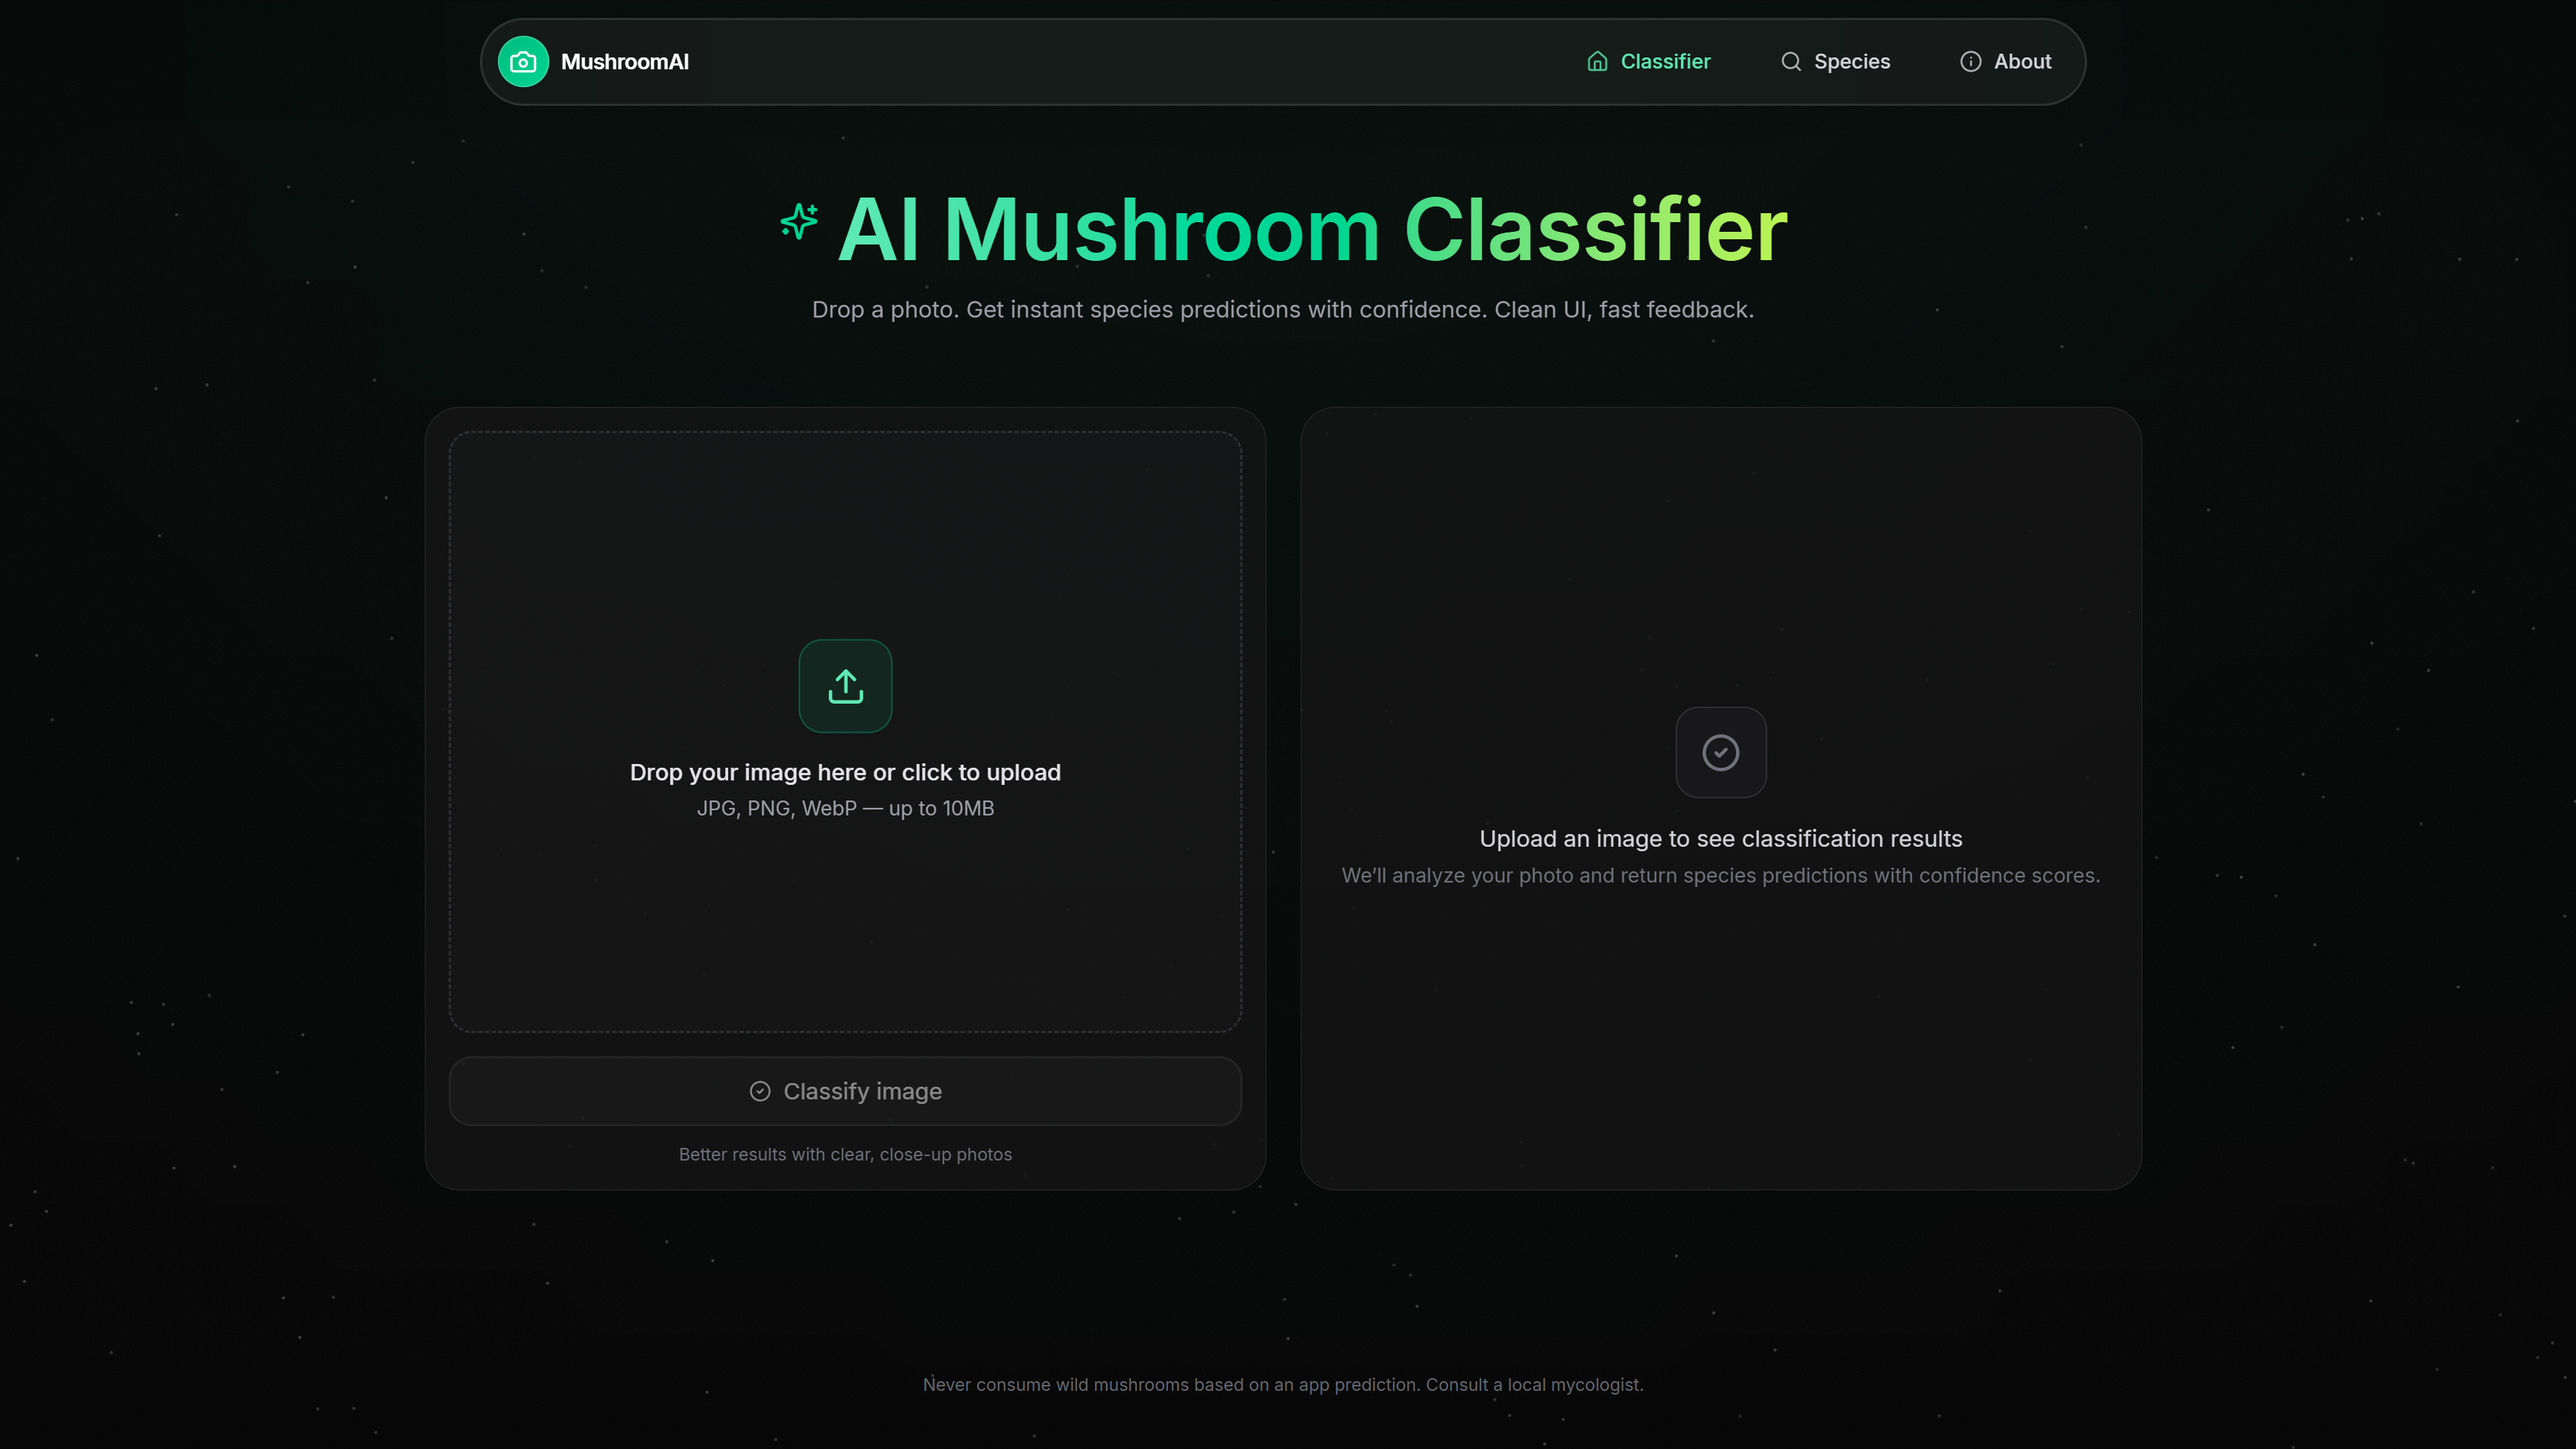
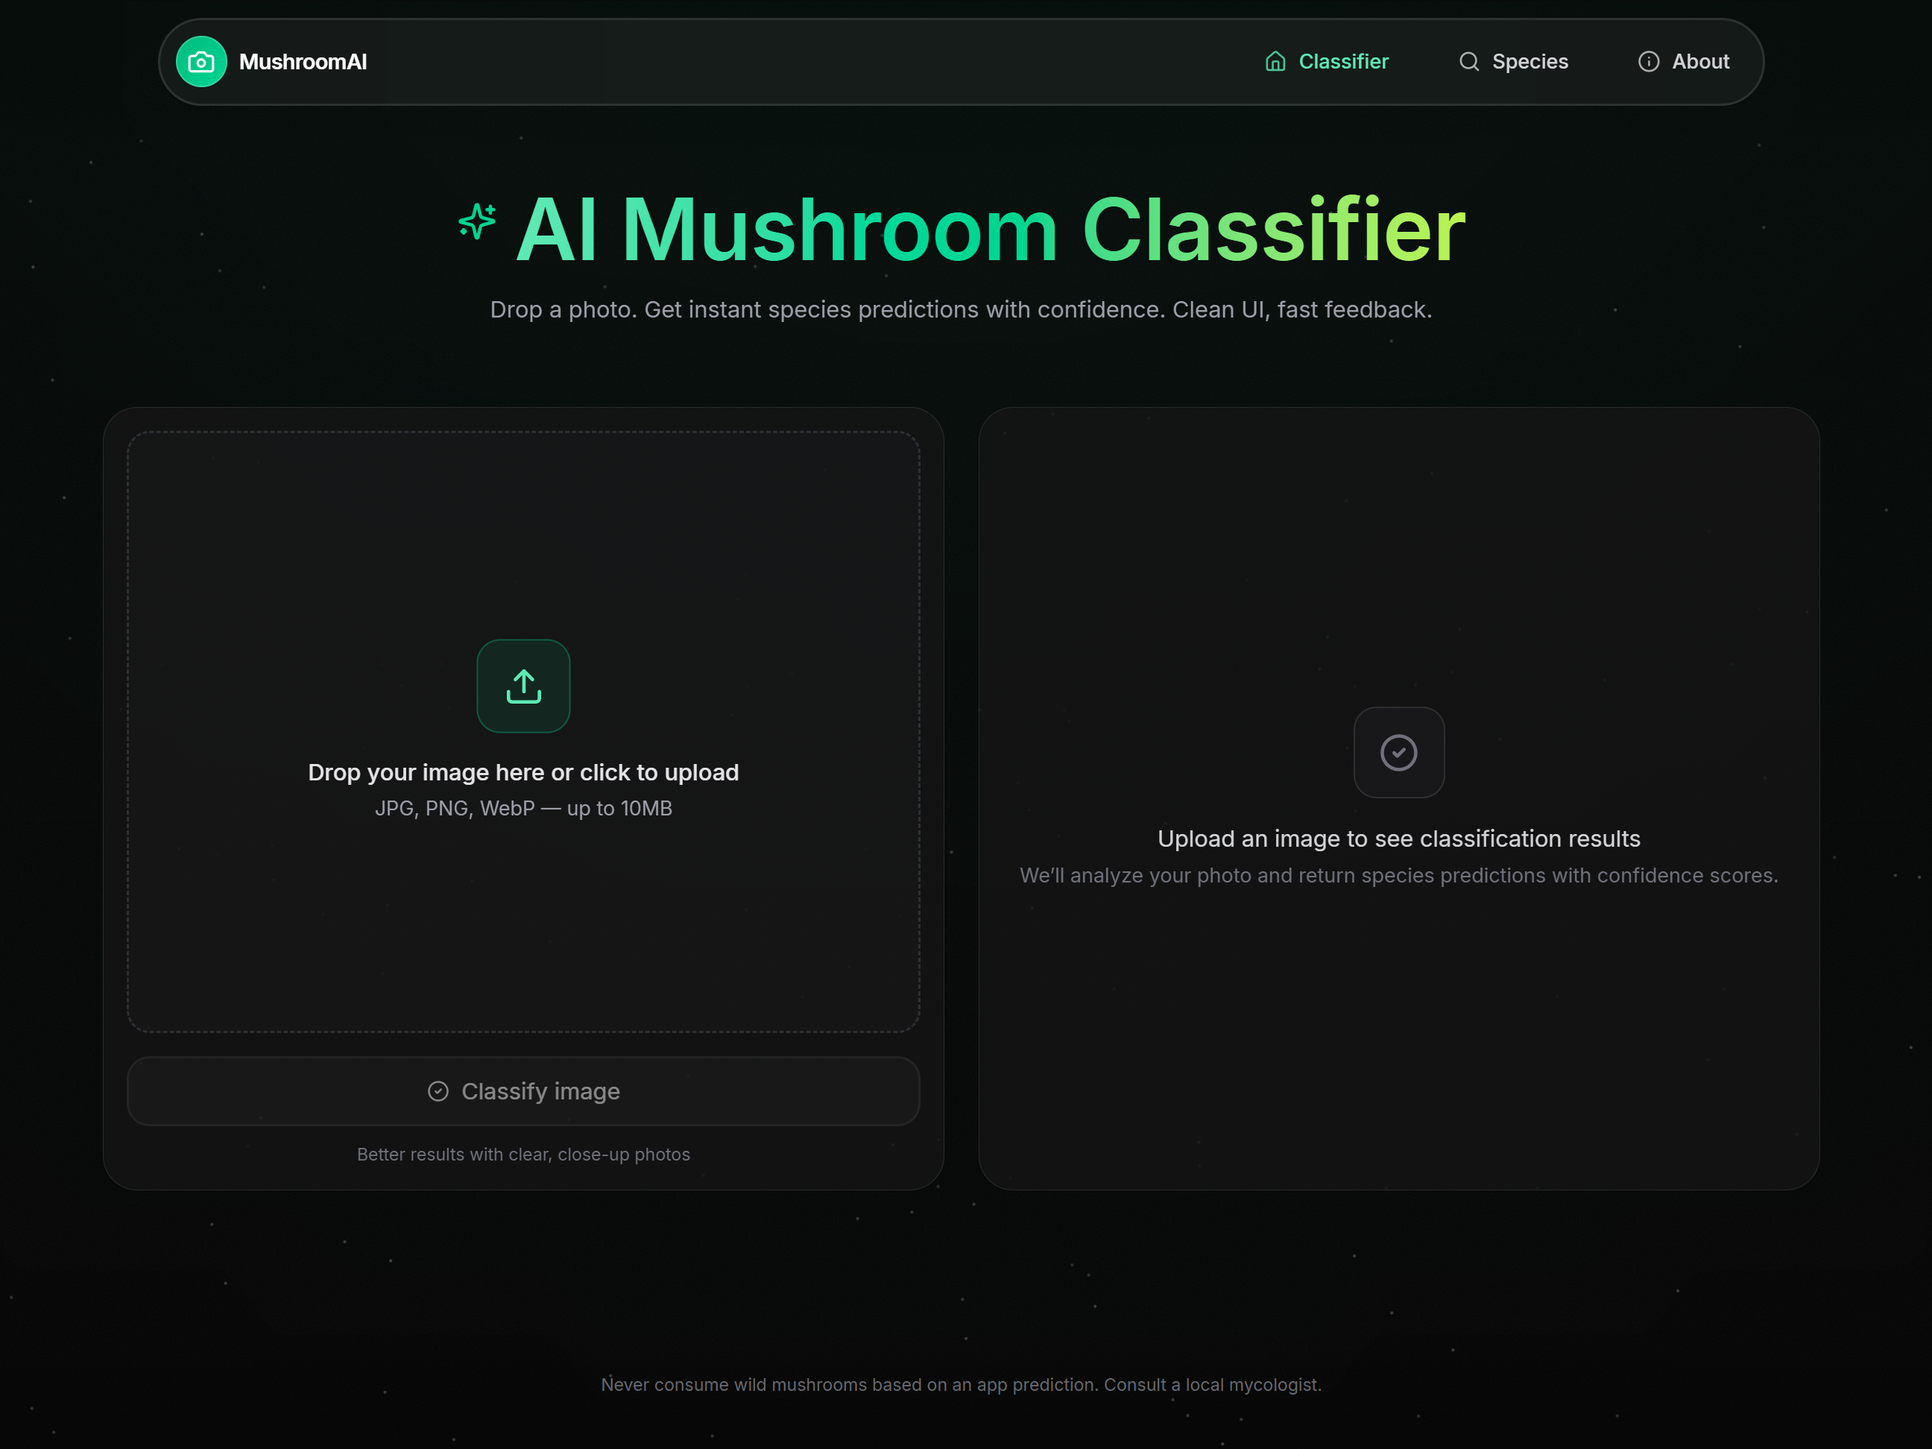
readme updated, minor changes to text on site

diff --git a/frontend/src/pages/Home.tsx b/frontend/src/pages/Home.tsx
@@ -218,8 +218,7 @@ export default function Home() {
             transition={{ delay: 0.08 }}
             className="mx-auto mt-3 max-w-2xl text-sm text-zinc-400 sm:text-base"
           >
-            Drop a photo. Get instant species predictions with confidence. Clean
-            UI, fast feedback.
+            Drop a photo. Get instant species predictions with confidence.
           </motion.p>
         </header>
 
@@ -422,6 +421,8 @@ export default function Home() {
           </motion.div>
         </div>
       </section>
+
+      <div className="flex-1" />
 
       {/* Footer */}
       <footer className="mx-auto mt-4 md:mt-12 mb-4 md:mb-8 max-w-3xl text-center text-xs text-zinc-500">

diff --git a/README.md b/README.md
@@ -50,16 +50,11 @@ Check out the deployed app here:
 - **Backend:**
   - Python (3.9+ recommended, developed with 3.12.10)
   - Flask
-  - Flask-CORS (for handling cross-origin requests)
 - **Machine Learning & Image Processing:**
   - TensorFlow 2.19.0
   - Pandas
-  - Matplotlib
-  - NumPy
   - Pillow (PIL)
 - **Development Tools:**
-  - Git & GitHub (Version Control)
-  - VS Code (or preferred IDE)
   - Jupyter
   - Amazon Web Services (EC2)
 
@@ -232,6 +227,7 @@ ai-mushroom-classifier/
 │   │   ├── main.jsx                      # Main JavaScript entry point
 │   │   ├── App.jsx                       # Root React application component
 │   │   ├── index.css                     # Global styles
+|   |   ├── components                    # UI Components (navbar, ambient backgrounds)
 │   │   └── pages/                        # Page components
 │   │       ├── Home.jsx                  # Home page containing the core classifier
 │   │       ├── SpeciesList.jsx           # Lists all classifiable species
